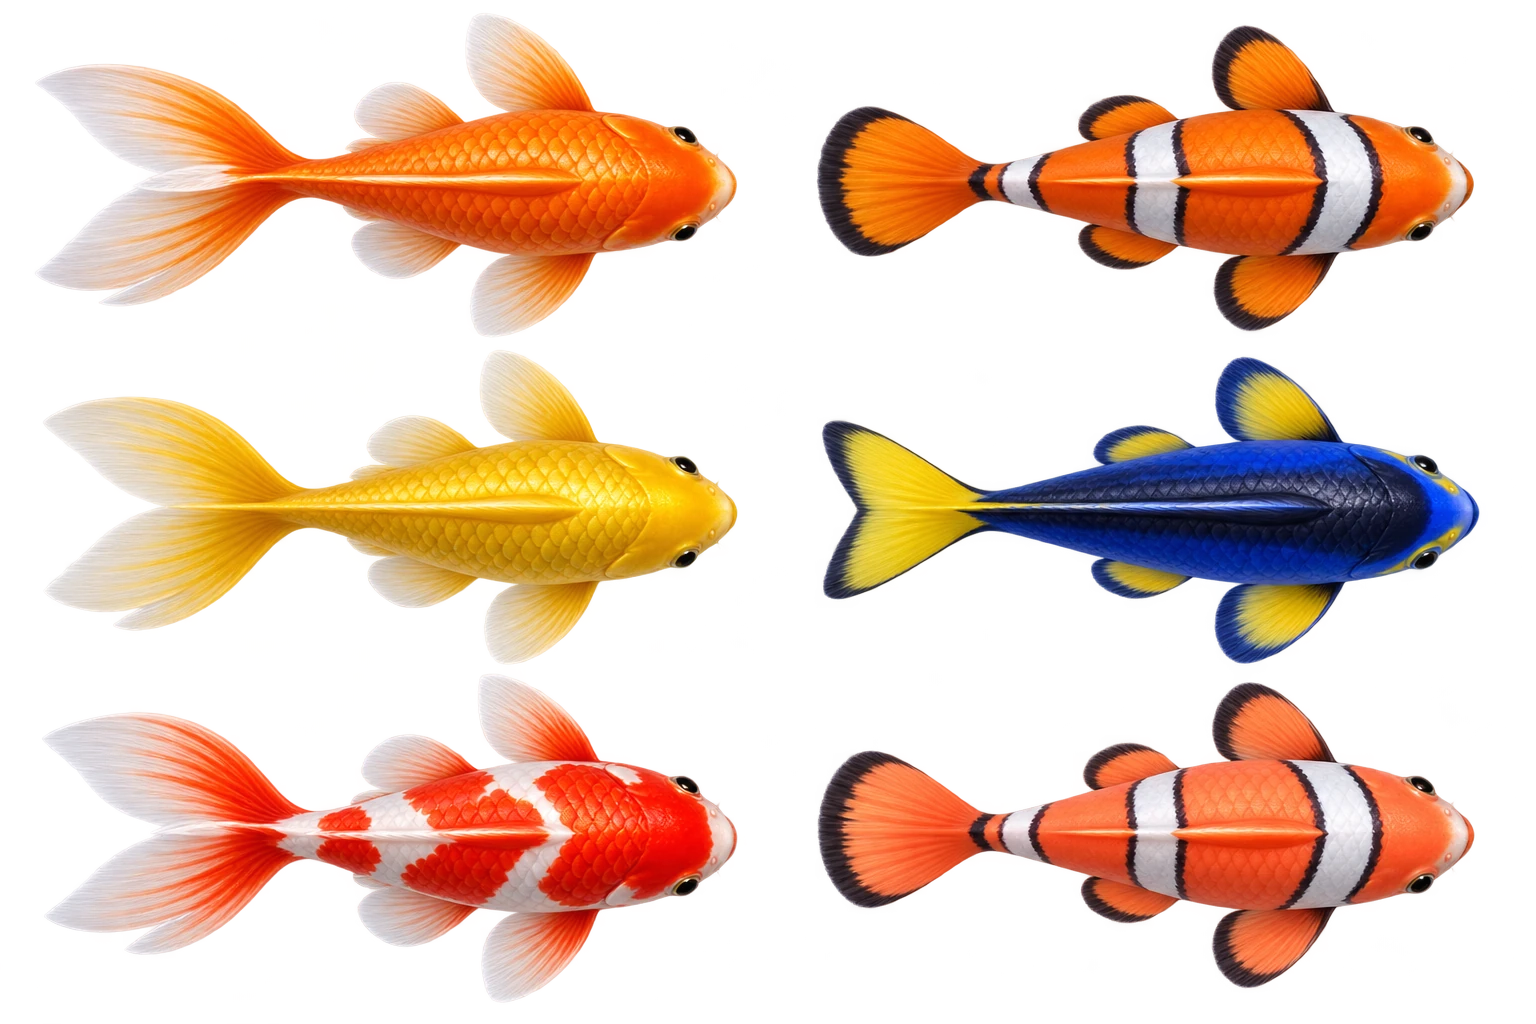
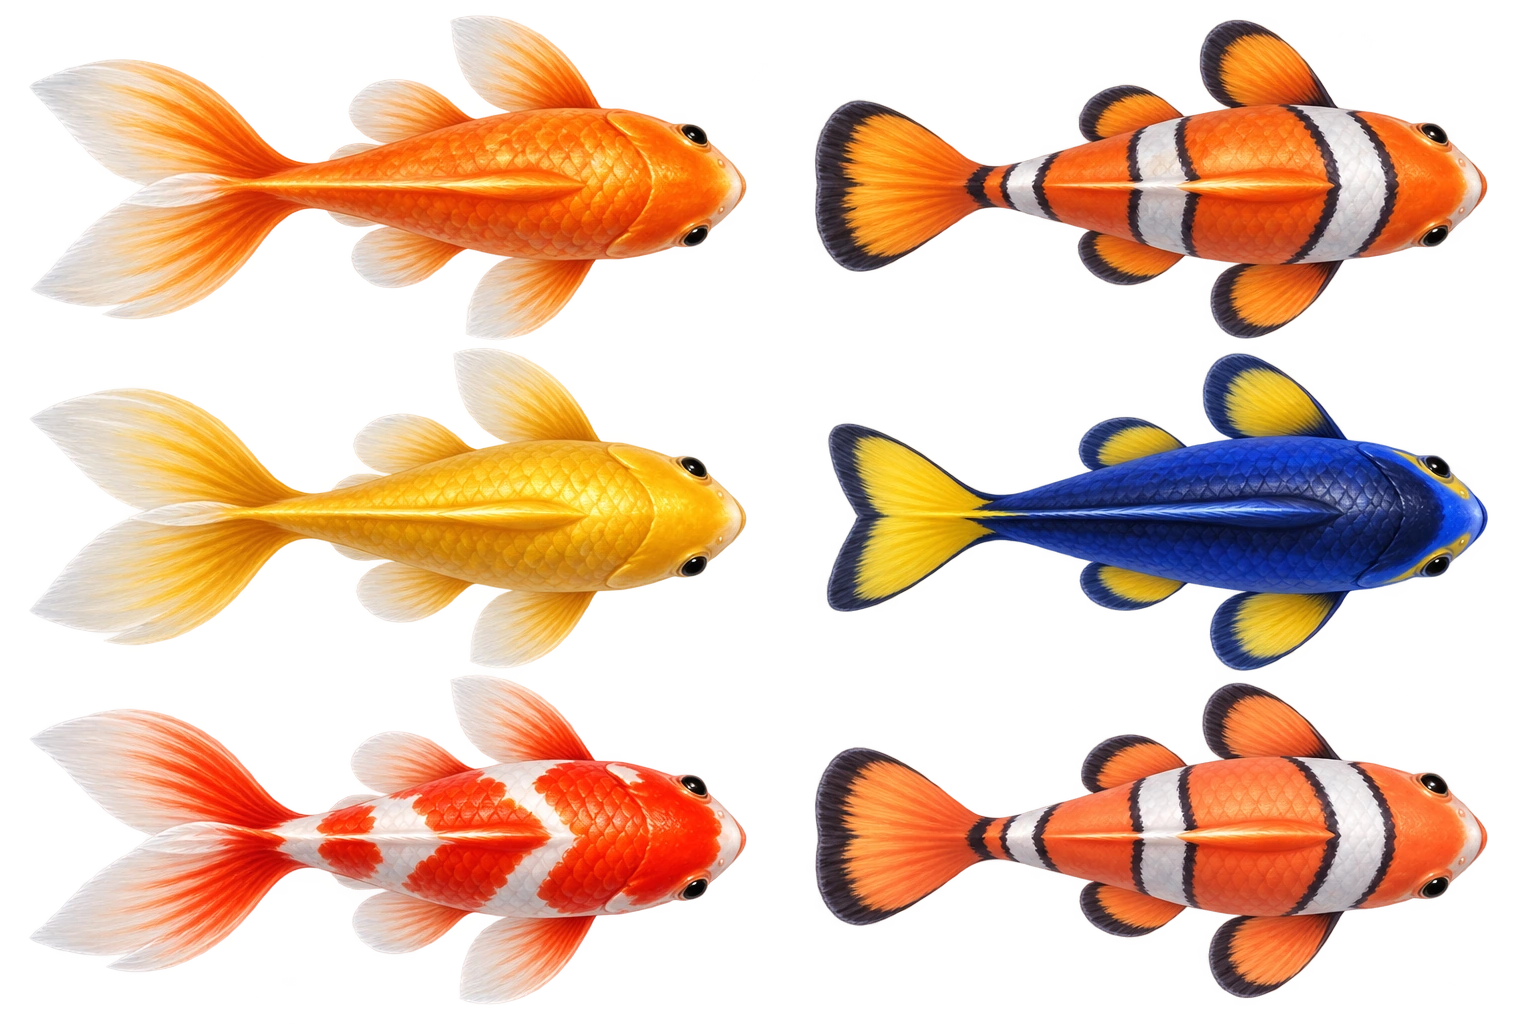
style: 提升卡通鱼池的手绘材质与水面层次

Changed region(s): [[0.0, 0.0, 0.5, 0.9688], [0.5312, 0.0, 0.9688, 0.9688]]

diff --git a/src/water.js b/src/water.js
@@ -126,7 +126,7 @@ void main() {
   vec4 color=texture(uTexture,clamp(uv+shift,uInputClamp.xy,uInputClamp.zw));
   float depth=terrain.b;
   vec3 shallow=color.rgb*vec3(1.025,1.012,.96);
-  vec3 deep=color.rgb*vec3(.63,.79,.85)+vec3(.005,.018,.024);
+  vec3 deep=color.rgb*mix(vec3(.63,.79,.85),vec3(.83,.92,.96),uStyle)+vec3(.005,.018,.024);
   color.rgb=mix(color.rgb,mix(shallow,deep,depth),wet);
   vec3 seasonWater=uSeason<.5?vec3(.95,1.08,.96):uSeason<1.5?vec3(1.):uSeason<2.5?vec3(1.14,.99,.80):vec3(.78,.90,1.06);
   color.rgb=mix(color.rgb,color.rgb*seasonWater,wet*.85);
@@ -140,10 +140,10 @@ void main() {
   w+=vec2(sin(w.y*2.2+t*.19)+sin(w.x*1.6-w.y+t*.11),cos(w.x*2.1-t*.15)+sin(w.y*1.7+w.x-t*.13))*.36;
   w+=vec2(sin(w.y*4.7-t*.21),cos(w.x*4.2+t*.17))*.09;
   float caustic=0.,broad=0.;
-  if(uStyle<.5&&uEffects>.5){
+  if(uEffects>.5){
     float line=abs(sin(w.x*2.5+sin(w.y*1.8)*1.6)+sin(w.y*2.9-w.x*.6)*.42);
-    caustic=exp(-line*mix(15.,24.,uClimate.z))*.046;
-    broad=exp(-line*6.0)*.012;
+    caustic=exp(-line*mix(15.,24.,uClimate.z))*mix(.046,.025,uStyle);
+    broad=exp(-line*6.0)*mix(.012,.022,uStyle);
   }
   float curved=sin(localWorld.x*.017+localWorld.y*.009+sin(localWorld.y*.022-t*.18)*1.9+t*.24);
   float ribbon=exp(-abs(curved)*mix(54.,32.,uStyle))*noise(localWorld*.008+vec2(t*.015,0.))*mix(.025,.014,uStyle);
